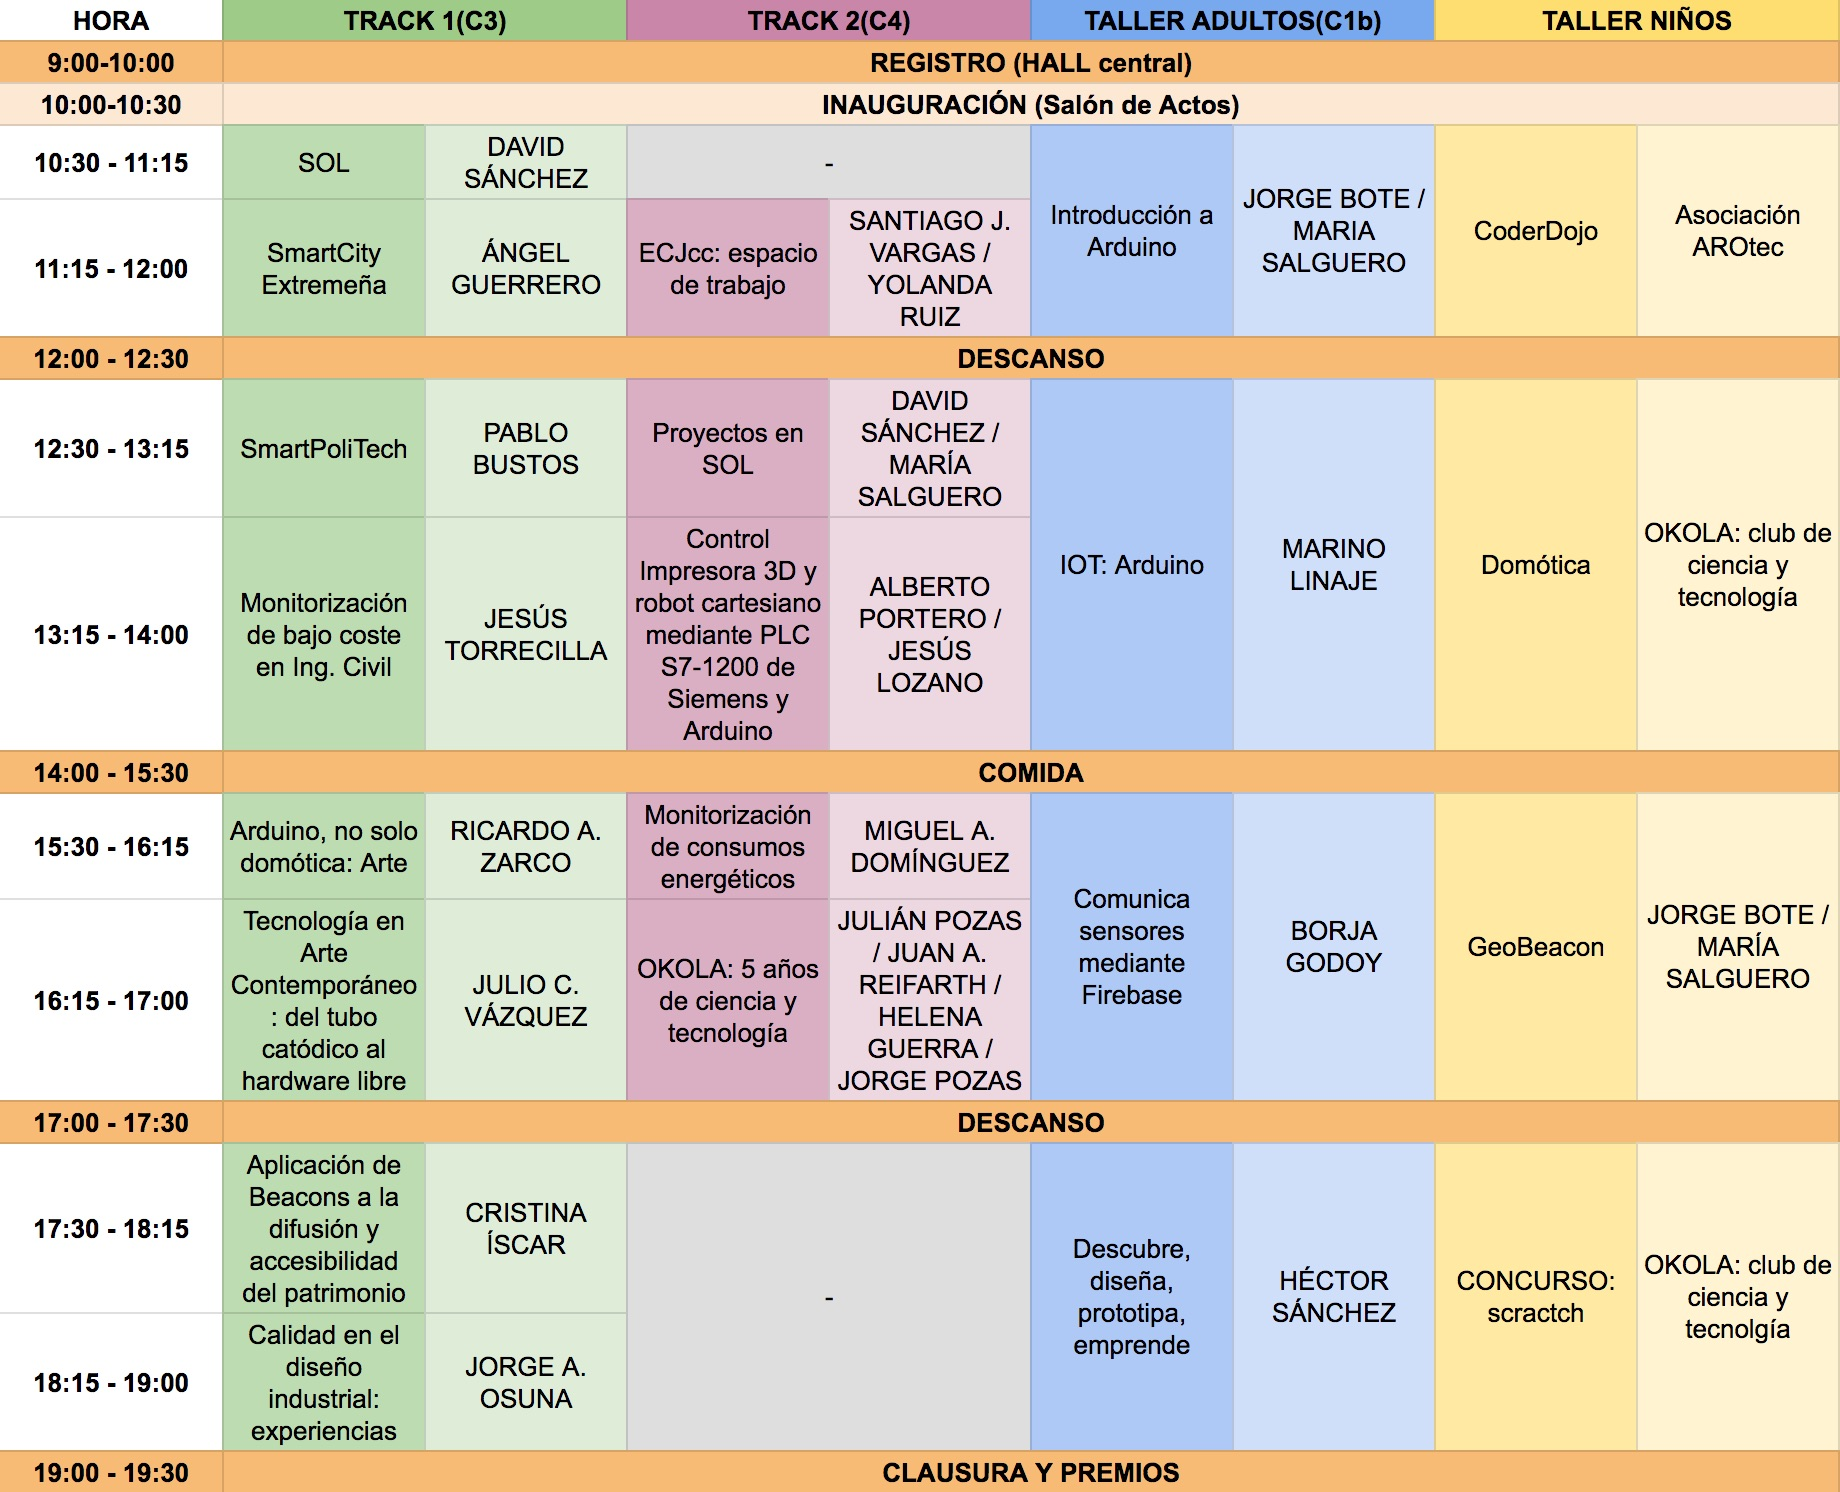
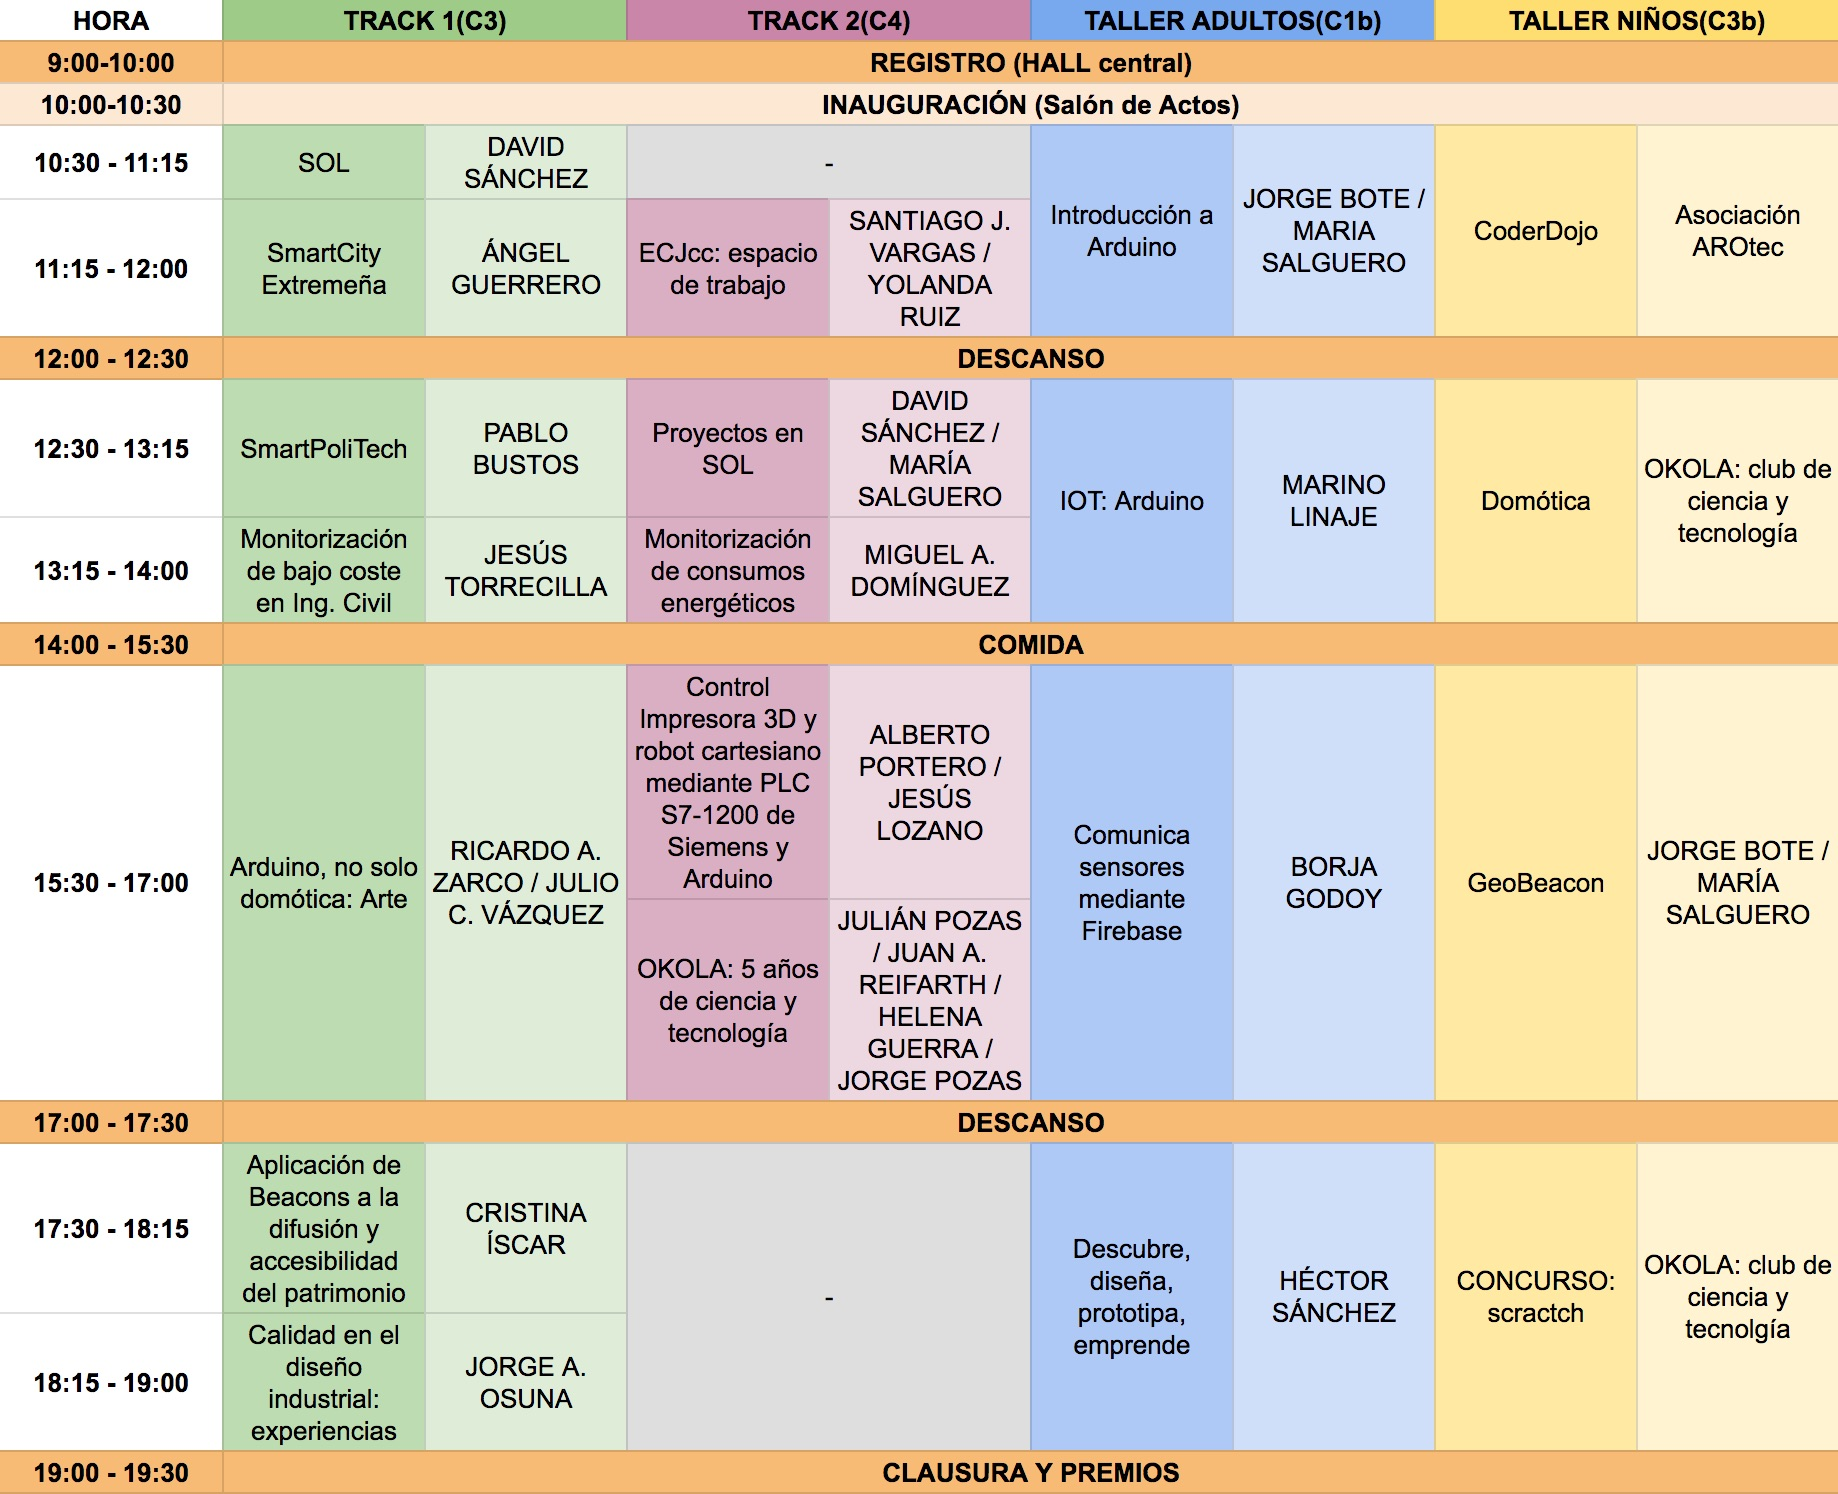
Ultimos cambios y fallo de ponente

diff --git a/track2.html b/track2.html
@@ -23,7 +23,6 @@
 			<div class="cd-timeline-img cd-picture">
 				<img src="img/cd-icon-picture.svg" alt="Picture">
 			</div> <!-- cd-timeline-img -->
-
 			<div class="cd-timeline-content">
 				<h2>Inauguración - Salón de actos</h2>
 				<p>Inauguramos un año más el evento del Arduino Day con nuestra excepcional mesa inaugural formada por profesionales de todos los ámbitos de la tecnología.</p>
@@ -31,7 +30,6 @@
 				<br>-Pablo García Rodríguez - Director de la Escuela Politécnica
 				<br>-David Rodríguez Lozano - Director del Servicio de Informática de la UEx
 				<br>-Antonio Gordillo Guerrero - Profesor responsable de Smart Open Lab
-				<br>-Juan José Maldonado Briegas - Director General de la Junta de Extremadura de FP y Universidad
 				<br>-César Joaquín Ramos Esteban - Ingeniero Industrial y Autor del libro Democracia Hacker
 				<br>-Ángel Guerrero Rodríguez - Ingeniero en Telecomunicación en la SmartCity de Villanueva de la Serena
 				</p>
@@ -77,12 +75,9 @@
 			</div> <!-- cd-timeline-img -->
 
 			<div class="cd-timeline-content">
-				<h2>Control de Impresora 3D y Robot Cartesiano mediante PLC S7-1200 de Siemens y Arduino</h2>
-				<p>Diseño de control de impresora 3D utilizando un autómata S7-1200 de Siemens, un Arduino Mega 2560 y una Shield Ethernet de Arduino. Tema centrado en la transmisión de datos y compatibilidad de estos dispositivos vía Ethernet.</p>
-				<p>Ponentes: 
-				<br>-Alberto Portero Mendoza
-				<br>-Jesús Lozano Rogado
-				</p>
+				<h2>Monitorización de los Consumos Energéticos</h2>
+				<p>El primer paso para gestionar y reducir el consumo energético de una instalación es obtener información detallada del consumo y su evolución temporal. La mayoría de los contadores de energía eléctrica, de gas o de agua pueden generar pulsos eléctricos por cada unidad de medida del contador. Estos pulsos pueden ser fácilmente contabilizados mediante una placa de Arduino y transmitidos de forma inalámbrica a un servidor, para su posterior tratamiento.</p>
+				<p>Ponente: Miguel Ángel Domínguez Puertas</p>
 				<span class="cd-date">13:15 - 14:00</span>
 			</div> <!-- cd-timeline-content -->
 		</div> <!-- cd-timeline-block -->
@@ -93,9 +88,12 @@
 			</div> <!-- cd-timeline-img -->
 
 			<div class="cd-timeline-content">
-				<h2>Monitorización de los Consumos Energéticos</h2>
-				<p>El primer paso para gestionar y reducir el consumo energético de una instalación es obtener información detallada del consumo y su evolución temporal. La mayoría de los contadores de energía eléctrica, de gas o de agua pueden generar pulsos eléctricos por cada unidad de medida del contador. Estos pulsos pueden ser fácilmente contabilizados mediante una placa de Arduino y transmitidos de forma inalámbrica a un servidor, para su posterior tratamiento.</p>
-				<p>Ponente: Miguel Ángel Domínguez Puertas</p>
+				<h2>Control de Impresora 3D y Robot Cartesiano mediante PLC S7-1200 de Siemens y Arduino</h2>
+				<p>Diseño de control de impresora 3D utilizando un autómata S7-1200 de Siemens, un Arduino Mega 2560 y una Shield Ethernet de Arduino. Tema centrado en la transmisión de datos y compatibilidad de estos dispositivos vía Ethernet.</p>
+				<p>Ponentes: 
+				<br>-Alberto Portero Mendoza
+				<br>-Jesús Lozano Rogado
+				</p>
 				<span class="cd-date">15:30 - 16:15</span>
 			</div> <!-- cd-timeline-content -->
 		</div> <!-- cd-timeline-block -->

diff --git a/track1.html b/track1.html
@@ -30,7 +30,6 @@
 				<br>-Pablo García Rodríguez  (Director de la Escuela Politécnica)
 				<br>-David Rodríguez Lozano - Director del Servicio de Informática de la UEx
 				<br>-Antonio Gordillo Guerrero  (Profesor responsable de Smart Open Lab)
-				<br>-Juan José Maldonado Briegas  (Director General de la Junta de Extremadura de FP y Universidad)
 				<br>-César Joaquín Ramos Esteban  (Ingeniero Industrial y Autor del libro Democracia Hacker)
 				<br>-Ángel Guerrero Rodríguez  (Ingeniero en Telecomunicación en la SmartCity de Villanueva de la Serena)
 				</p>
@@ -70,7 +69,7 @@
 				<h2>SmartPoliTech</h2>
 				<p>SmartPoliTech es un proyecto institucional de la Escuela Politécnica de la UEx sobre inmótica que se desarrolla dentro de los siete edificios que la componen. En la charla veremos el estado actual del proyecto y las propuestas que hay para su evolución futura.</p>
 				<p>Ponente: Pablo Bustos</p>
-				<span class="cd-date">16:15 - 17:00</span>
+				<span class="cd-date">12:30 - 13:15</span>
 			</div> <!-- cd-timeline-content -->
 		</div> <!-- cd-timeline-block -->
 
@@ -93,20 +92,11 @@
 			<div class="cd-timeline-content">
 				<h2>Arduino, no solo Domótica: Arte</h2>
 				<p>Aunque Arduino suena cada vez con más fuerza en todos los sectores y ámbitos ,hay uno que parece olvidado,las artes. Si bien es verdad que ahora casi cualquier estudiante de ciencias ha tocado o conoce Arduino,fuera de estas ,aún suena como algo desconocido o de difícil acceso. Pero la tendencia esta cambiando . Arduino no es solo domotica!</p>
-				<p>Ponente: Ricardo Antonio Zarco</p>
-				<span class="cd-date">15:30 - 16:15</span>
-			</div> <!-- cd-timeline-content -->
-		</div> <!-- cd-timeline-block -->
-
-		<div class="cd-timeline-block">
-			<div class="cd-timeline-img cd-picture">
-				<img src="img/cd-icon-picture.svg" alt="Picture">
-			</div> <!-- cd-timeline-img -->
-			<div class="cd-timeline-content">
-				<h2>Tecnologías en el Arte Contemporáneo, del tubo catódico al hardware libre</h2>
-				<p>Un repaso por los principales y más controvertidos movimientos artísticos, autores y obras que han trabajado con tecnologías aplicadas al Arte Contemporáneo lo largo de las últimas décadas. Video Instalación, Game Art, Newmedia Art o Net Art entre otros géneros, hasta llegar a los últimos ejemplos en la aplicación del hardware libre.</p>
-				<p>Ponente: Julio C. Vázquez Ortiz</p>
-				<span class="cd-date">12:30 - 13:15</span>
+				<p>Ponentes:
+				<br>-Ricardo Antonio Zarco
+				<br>-Julio C. Vázquez Ortiz
+				</p>
+				<span class="cd-date">15:30 - 17:00</span>
 			</div> <!-- cd-timeline-content -->
 		</div> <!-- cd-timeline-block -->
 

diff --git a/kids.html b/kids.html
@@ -23,7 +23,6 @@
 			<div class="cd-timeline-img cd-picture">
 				<img src="img/cd-icon-picture.svg" alt="Picture">
 			</div> <!-- cd-timeline-img -->
-
 			<div class="cd-timeline-content">
 				<h2>Inauguración - Salón de actos</h2>
 				<p>Inauguramos un año más el evento del Arduino Day con nuestra excepcional mesa inaugural formada por profesionales de todos los ámbitos de la tecnología.</p>
@@ -31,7 +30,6 @@
 				<br>-Pablo García Rodríguez - Director de la Escuela Politécnica
 				<br>-David Rodríguez Lozano - Director del Servicio de Informática de la UEx
 				<br>-Antonio Gordillo Guerrero - Profesor responsable de Smart Open Lab
-				<br>-Juan José Maldonado Briegas - Director General de la Junta de Extremadura de FP y Universidad
 				<br>-César Joaquín Ramos Esteban - Ingeniero Industrial y Autor del libro Democracia Hacker
 				<br>-Ángel Guerrero Rodríguez - Ingeniero en Telecomunicación en la SmartCity de Villanueva de la Serena
 				</p>

diff --git a/talleres.html b/talleres.html
@@ -23,7 +23,6 @@
 			<div class="cd-timeline-img cd-picture">
 				<img src="img/cd-icon-picture.svg" alt="Picture">
 			</div> <!-- cd-timeline-img -->
-
 			<div class="cd-timeline-content">
 				<h2>Inauguración - Salón de actos</h2>
 				<p>Inauguramos un año más el evento del Arduino Day con nuestra excepcional mesa inaugural formada por profesionales de todos los ámbitos de la tecnología.</p>
@@ -31,7 +30,6 @@
 				<br>-Pablo García Rodríguez - Director de la Escuela Politécnica
 				<br>-David Rodríguez Lozano - Director del Servicio de Informática de la UEx
 				<br>-Antonio Gordillo Guerrero - Profesor responsable de Smart Open Lab
-				<br>-Juan José Maldonado Briegas - Director General de la Junta de Extremadura de FP y Universidad
 				<br>-César Joaquín Ramos Esteban - Ingeniero Industrial y Autor del libro Democracia Hacker
 				<br>-Ángel Guerrero Rodríguez - Ingeniero en Telecomunicación en la SmartCity de Villanueva de la Serena
 				</p>
